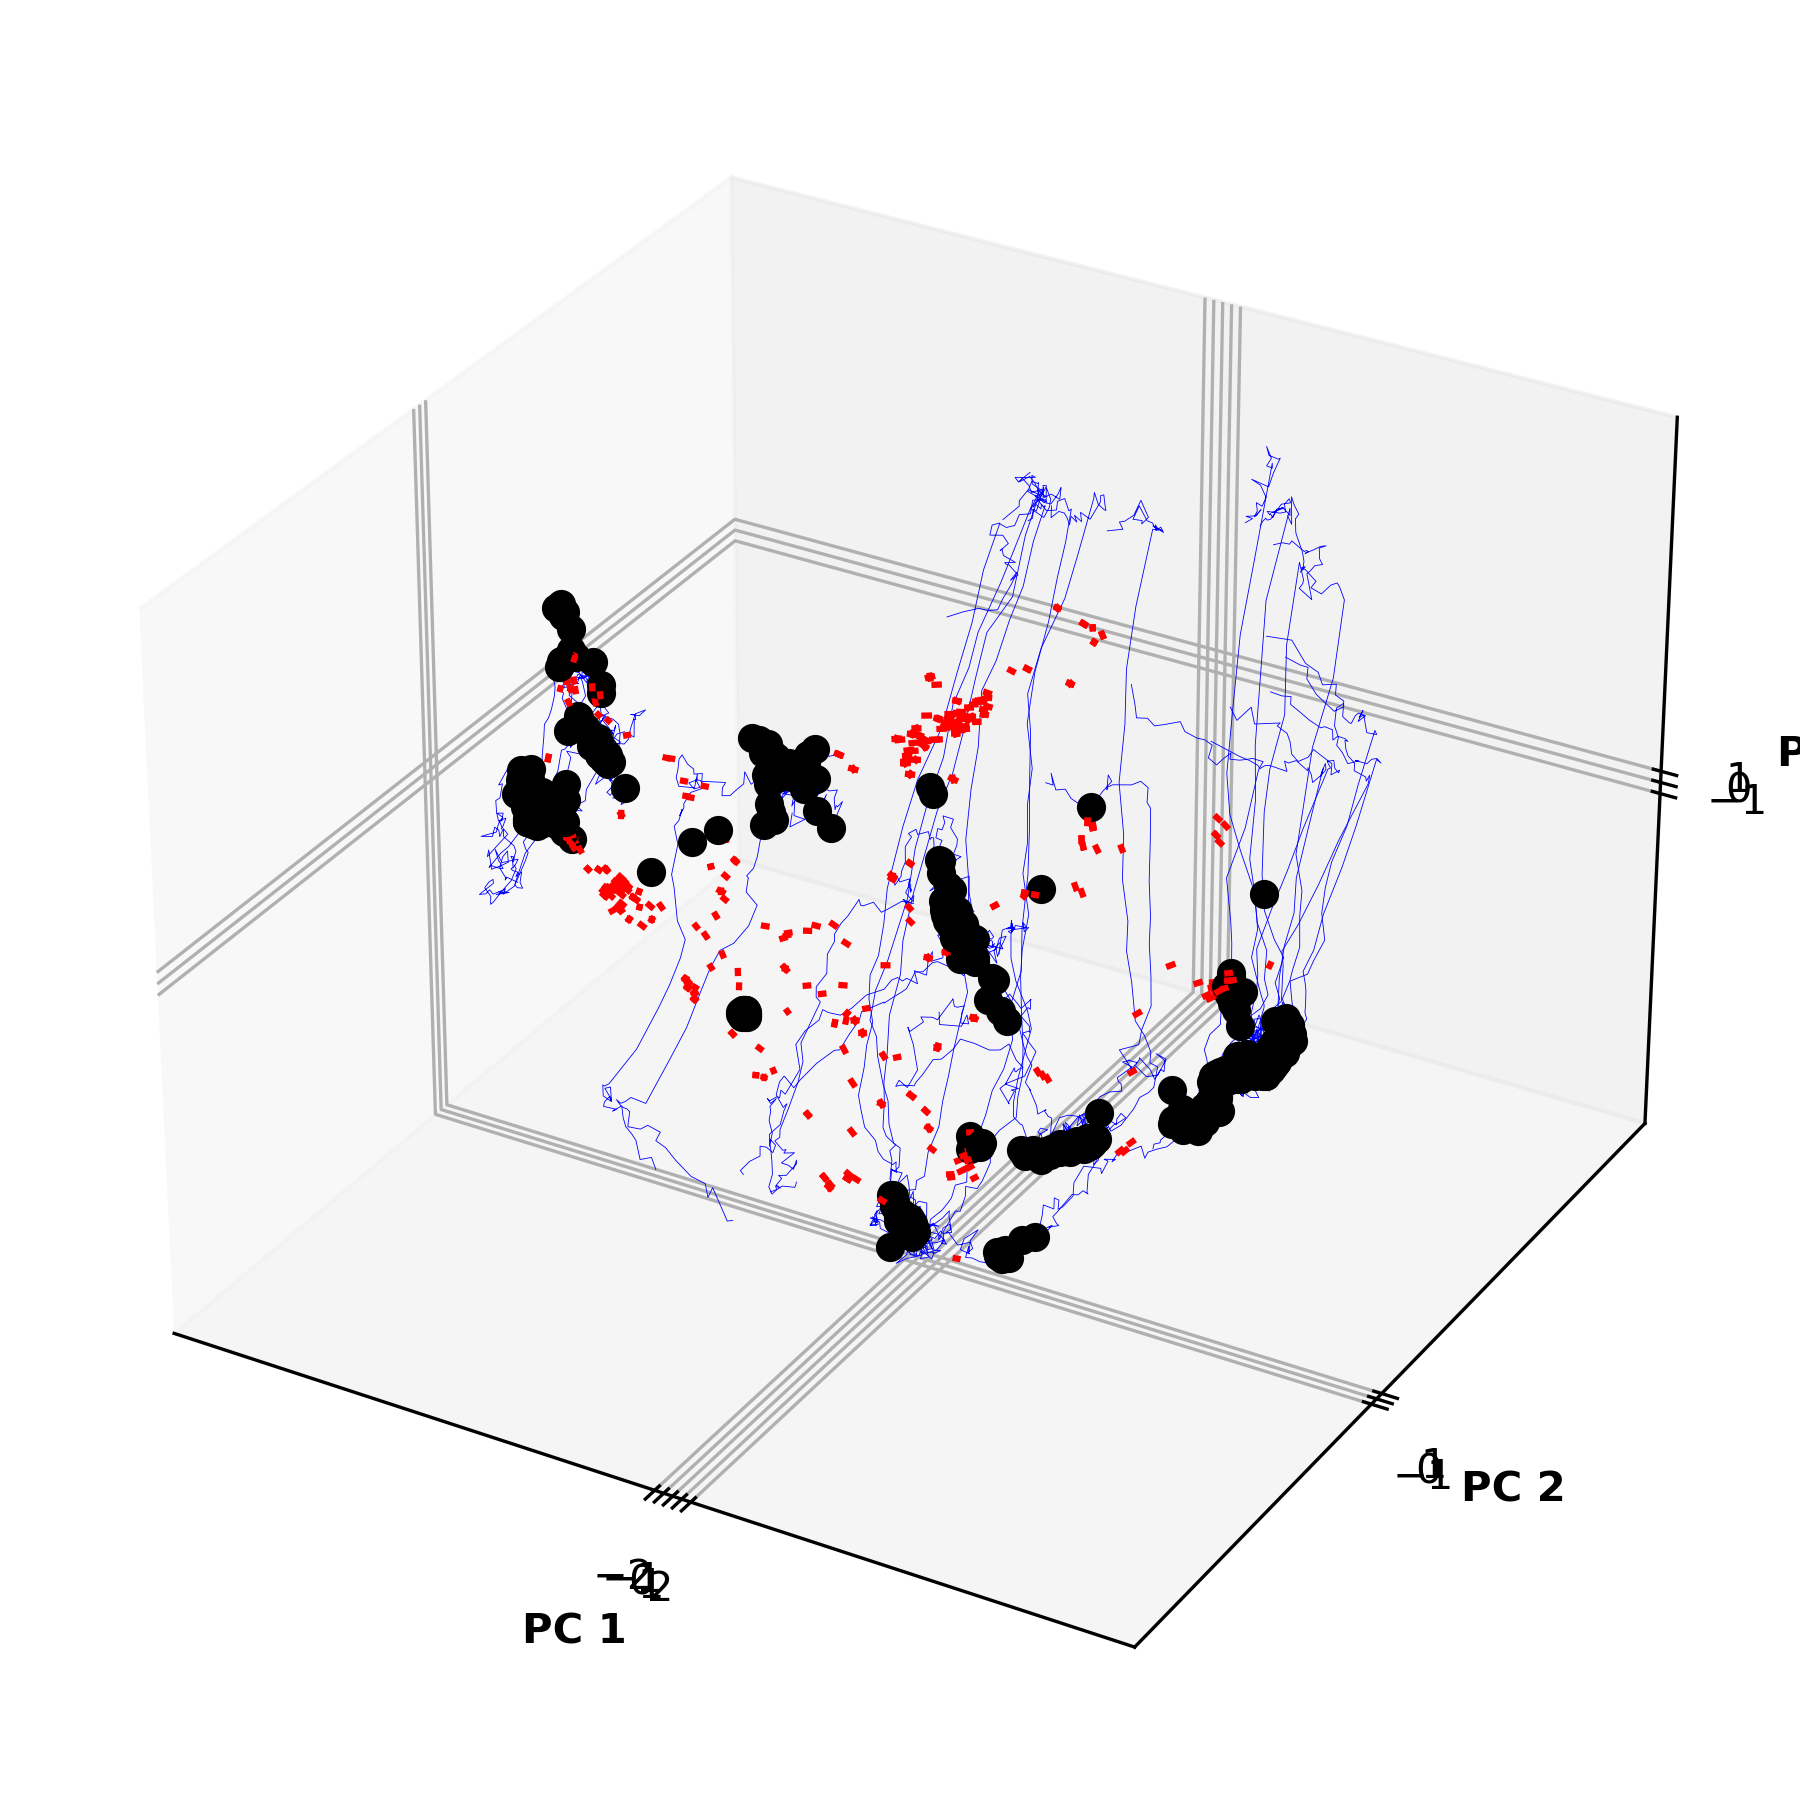
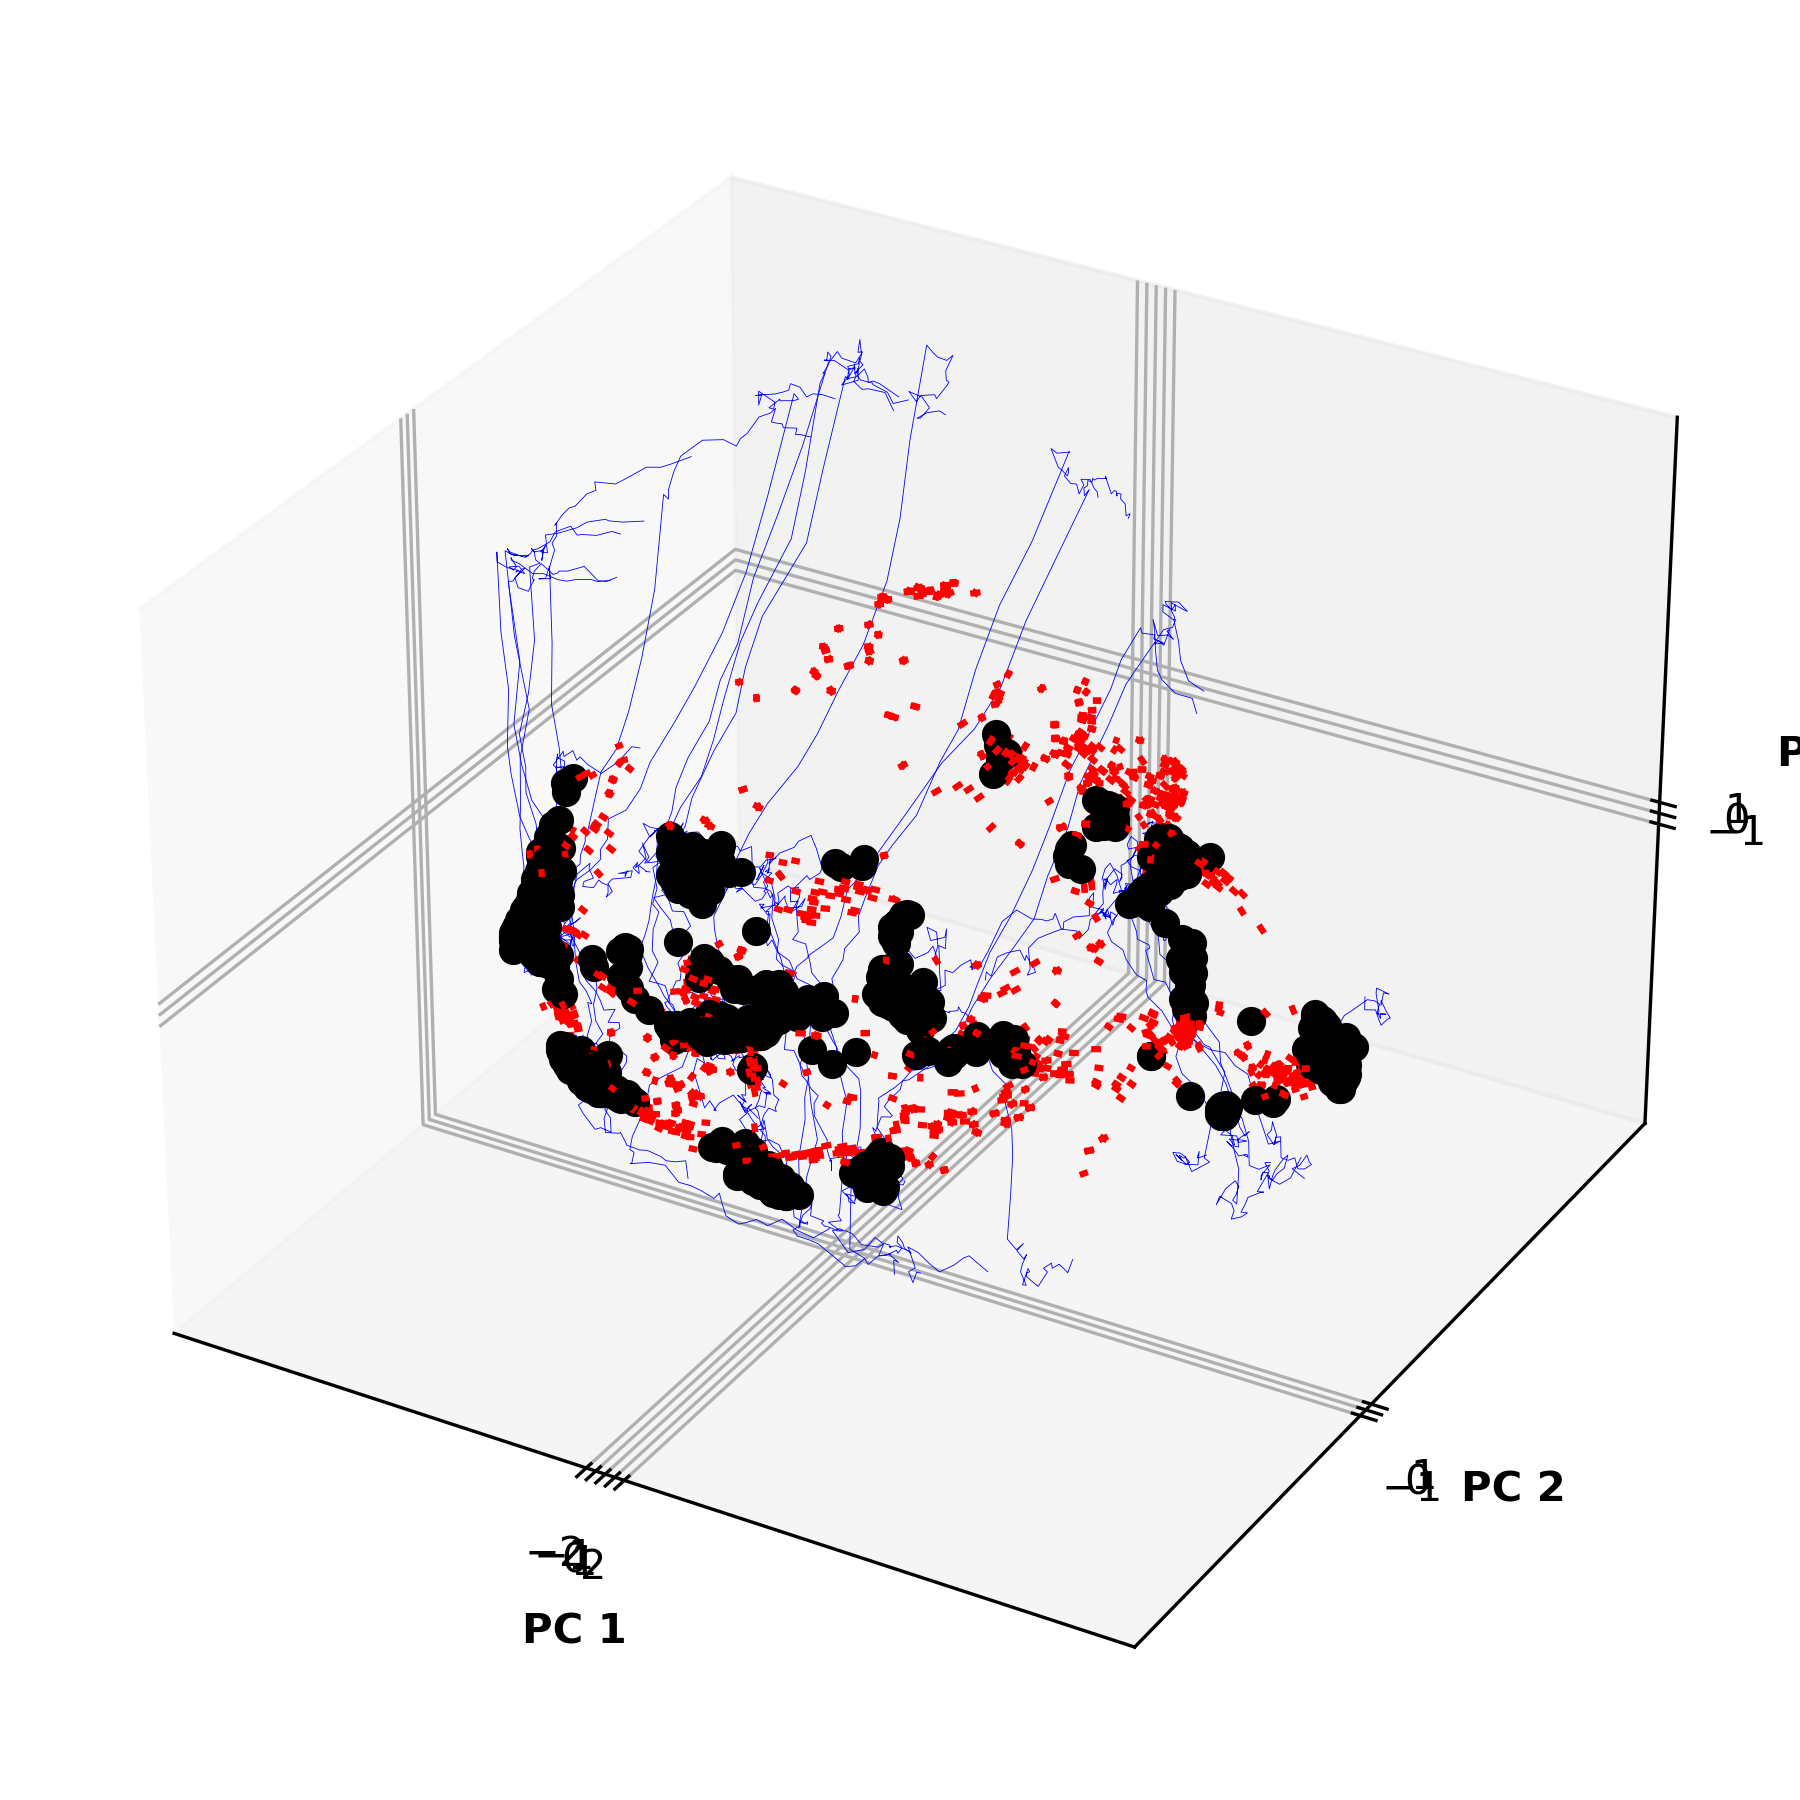
update config for fpf

diff --git a/fixedpoint.py b/fixedpoint.py
@@ -22,17 +22,6 @@ def analyze_fixed_points(model, hidden_states):
     Returns:
         unique_fps: Unique fixed points found.
     """
-    # Hyperparameters for fixed point finder
-    fpf_hps = {
-        'max_iters': 10000,
-        'lr_init': 1.0,
-        'outlier_distance_scale': 10.0,
-        'verbose': True,
-        'super_verbose': True
-    }
-
-    NOISE_SCALE = 0.5  # Standard deviation of noise added to states
-    N_INITS = 128     # Number of initial states for optimization
 
     # (steps, trials, neurons) -> [n_batch x n_time x n_states]
     initial_states = hidden_states.reshape(num_trials, -1, num_neurons)
@@ -41,7 +30,7 @@ def analyze_fixed_points(model, hidden_states):
     fpf = FixedPointFinder(model, **fpf_hps)
 
     # sampled_states has shape [n_inits x n_states]
-    sampled_states = fpf.sample_states(initial_states, n_inits=N_INITS, noise_scale=NOISE_SCALE)
+    sampled_states = fpf.sample_states(initial_states, n_inits=fpf_N_init, noise_scale=fpf_noise_scale)
 
     # Inputs to analyze the RNN in the absence of external stimuli
     inputs = np.zeros([1, max_item_num * 2])
@@ -55,7 +44,7 @@ def analyze_fixed_points(model, hidden_states):
         hidden_states.cpu().numpy(),  # Convert back to CPU for plotting
         plot_batch_idx=list(range(min(30, hidden_states.shape[1]))),
         plot_start_time=T_init,
-        save_path=f"{model_dir}/fixed_points_plot.pkl"
+        save_path=f"{model_dir}/fixed_points_plot.png"
     )
 
     return unique_fps

diff --git a/config.py b/config.py
@@ -15,9 +15,9 @@ T_simul = T_init + T_stimi + T_delay + T_decode
 simul_steps = int(T_simul/dt)
 
 # Training parameters
-train_rnn = True  # Set to True if training is required
+train_rnn = False  # Set to True if training is required
 train_from_scratch = False
-find_fixed_points = False
+find_fixed_points = True
 num_epochs = int(1e4)
 eta = 1e-5 # learning_rate
 lambda_reg = 5e-4  # coeff for activity penalty
@@ -25,9 +25,20 @@ lambda_err = 1.0  # coeff for error penalty
 num_trials = 64  # Number of trials per epoch
 
 # Model and logging parameters
-# rnn_name = "fixed_discrete_input-no_noise"
 rnn_name = "cuda_2"
 model_dir = f"rnns/{rnn_name}"
+
+# Fixed Point Finder parameters
+fpf_bool = True
+fpf_N_init = 4096 # Number of initial states for optimization
+fpf_noise_scale = 0.5  # Standard deviation of noise added to states
+fpf_hps = { # Hyperparameters for fixed point finder
+    'max_iters': 10000,
+    'lr_init': 1.0,
+    'outlier_distance_scale': 10.0,
+    'verbose': True,
+    'super_verbose': True
+}
 
 
 

diff --git a/main.py b/main.py
@@ -26,7 +26,7 @@ if __name__ == "__main__":
     if history:
         plot_group_training_history(history["group_errors"], history["group_std"], history["group_activ"], item_num)
 
-    if find_fixed_points:
+    if fpf_bool:
         fixed_points_finder(model)
 
     # plt.show()
